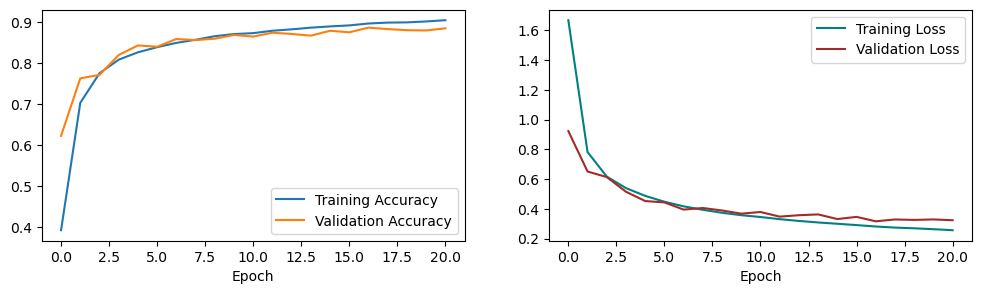
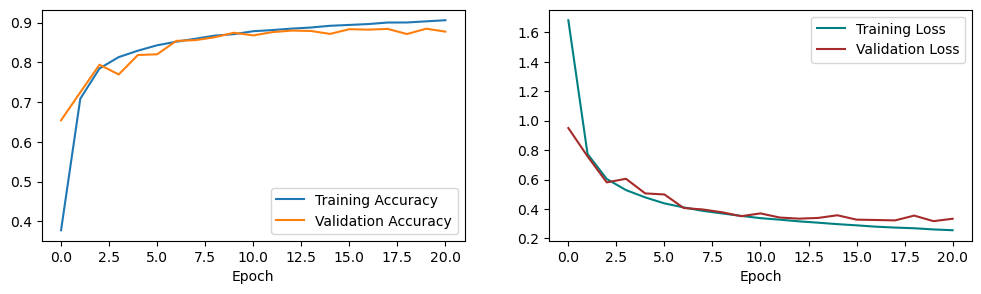
turned off shuffle in torch val data and updated readme and graphs

diff --git a/README.md b/README.md
@@ -91,7 +91,7 @@ The following graph shows the confusion matrix for the test dataset.
 
 ### PyTorch Implementation
 
-The loss function used is Negative Log Likelihood. The activation function used in the output layer is the LogSoftmax function. The training accuracy reached 0.9052 and the validation accuracy reached 0.8854. The training loss reached 0.2568 and the validation loss reached 0.3240. The model has an accuracy of 0.8736 on the test dataset. More metrics are available in the `torch-mlp-tuned.ipynb` notebook.
+The loss function used is Negative Log Likelihood. The activation function used in the output layer is the LogSoftmax function. The training accuracy reached 0.9059 and the validation accuracy reached 0.8773. The training loss reached 0.2557 and the validation loss reached 0.3336. The model has an accuracy of 0.8696 on the test dataset. More metrics are available in the `torch-mlp-tuned.ipynb` notebook.
 
 The following graph shows the training and validation loss and accuracy during training.
 
